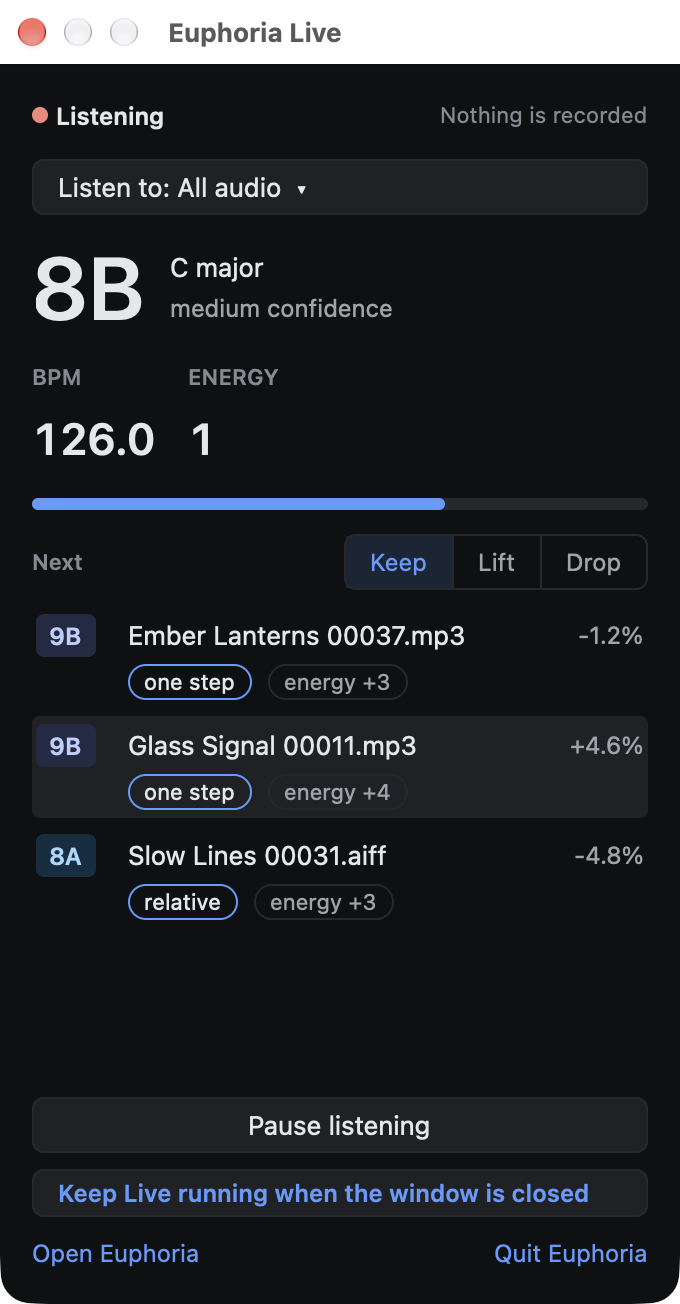
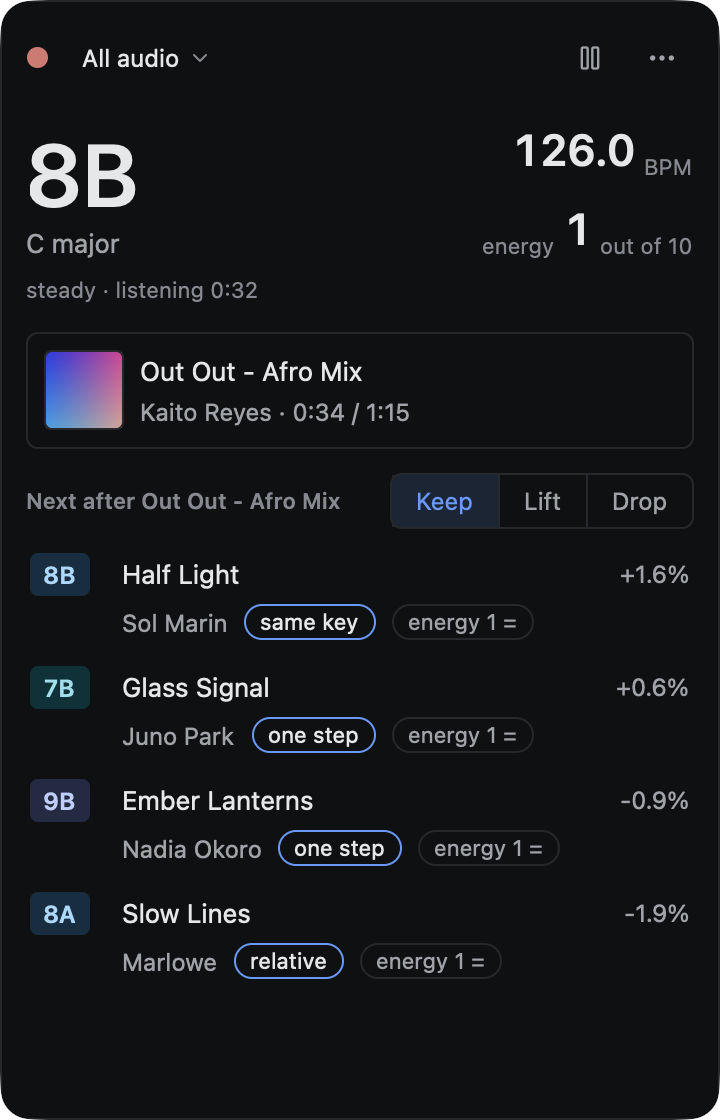
feat(desktop): Live popover opens under the menu bar item and closes on outside click, titles without extensions, one energy line, new screenshots and docs, CLI line mirrors the panel

diff --git a/apps/euphoria-desktop/src/views/live.rs b/apps/euphoria-desktop/src/views/live.rs
@@ -24,11 +24,11 @@ use crate::actions::{
 use crate::artwork::{Lookup, ThumbnailSize};
 use crate::assets::{MUSIC_ICON_PATH, PLAY_ICON_PATH};
 use crate::format;
-use crate::live_model::{Learning, ListenState, LiveModel, Steadiness};
+use crate::live_model::{Learning, ListenState, LiveModel, Steadiness, shown_title};
 use crate::next_rail::{EnergyChoice, NextRow, energy_text, relation_pill};
 use crate::theme::Palette;
 use crate::views::controls::{segment, segmented};
-use crate::views::inspector::{quiet_note, value_with_unit};
+use crate::views::inspector::{quiet_note, statistic_value, value_with_unit};
 use crate::views::key_chip::key_chip;
 use crate::views::{
     GAP_MEDIUM, GAP_SMALL, GAP_TIGHT, LABEL_TEXT_SIZE, RADIUS_LARGE, RADIUS_MEDIUM, RADIUS_SMALL,
@@ -358,7 +358,7 @@ fn header(model: &LiveModel, view: &LiveView, cx: &Context<'_, LiveView>) -> Div
         .child(
             Button::new(MORE_ID)
                 .ghost()
-                .icon(IconName::Ellipsis)
+                .icon(Icon::new(IconName::Ellipsis).text_color(palette.text_secondary))
                 .dropdown_menu(move |menu, _, _| {
                     more_rows.iter().fold(menu, |menu, row| {
                         let menu = if row.item == MoreItem::OpenEuphoria {
@@ -543,12 +543,13 @@ fn readout(model: &LiveModel) -> AnyElement {
                         .child(
                             div()
                                 .id(ENERGY_ID)
-                                .child(value_with_unit(
-                                    format!("energy {energy}"),
-                                    "out of 10",
-                                    "live-energy-unit",
-                                    &palette,
-                                ))
+                                .flex()
+                                .items_baseline()
+                                .gap(GAP_TIGHT)
+                                .whitespace_nowrap()
+                                .child(quiet_note("energy", &palette))
+                                .child(statistic_value(energy))
+                                .child(quiet_note("out of 10", &palette))
                                 .test_support(),
                         ),
                 ),
@@ -651,7 +652,7 @@ fn library_card(model: &LiveModel, cx: &Context<'_, LiveView>) -> Option<AnyElem
                     .flex_col()
                     .flex_1()
                     .min_w_0()
-                    .child(div().truncate().child(track.title().to_string()))
+                    .child(div().truncate().child(shown_title(track)))
                     .child(
                         div()
                             .truncate()
@@ -730,7 +731,7 @@ fn next_row(model: &LiveModel, next: &NextRow, is_selected: bool) -> Option<AnyE
                                     .flex_1()
                                     .min_w_0()
                                     .truncate()
-                                    .child(track.title().to_string()),
+                                    .child(shown_title(track)),
                             )
                             .child(
                                 div()

diff --git a/apps/euphoria-desktop/src/live_model.rs b/apps/euphoria-desktop/src/live_model.rs
@@ -467,9 +467,7 @@ impl LiveModel {
         let Some((key, _)) = self.signature else {
             return;
         };
-        let title = self
-            .matched_track()
-            .map(|(track, _)| track.title().to_string());
+        let title = self.matched_track().map(|(track, _)| shown_title(track));
         let entry = Earlier {
             key,
             bpm: self.reading.tempo.map(|tempo| tempo.bpm),
@@ -522,7 +520,7 @@ impl LiveModel {
     /// The words above the Next list: what it follows.
     pub(crate) fn next_heading(&self) -> String {
         if let Some((track, _)) = self.matched_track() {
-            return format!("Next after {}", track.title());
+            return format!("Next after {}", shown_title(track));
         }
         match (self.reading.key, self.reading.tempo) {
             (Some(key), Some(tempo)) => format!(
@@ -740,6 +738,20 @@ pub(crate) fn load_library_from_cache() -> Library {
         }
     }
     library
+}
+
+/// The title the panel shows: the one in the tags, or the file name without
+/// its extension.
+pub(crate) fn shown_title(track: &crate::library::Track) -> String {
+    if track.title() != track.file_name {
+        return track.title().to_string();
+    }
+    std::path::Path::new(&track.file_name)
+        .file_stem()
+        .map_or_else(
+            || track.file_name.clone(),
+            |stem| stem.to_string_lossy().into_owned(),
+        )
 }
 
 /// Fingerprints the library's files from the analysis cache, one at a time

diff --git a/apps/euphoria-desktop/src/live_ui_tests.rs b/apps/euphoria-desktop/src/live_ui_tests.rs
@@ -24,7 +24,7 @@ use gpui::{
 };
 
 use crate::library::Library;
-use crate::live_model::{ListenState, LiveModel, Steadiness};
+use crate::live_model::{ListenState, LiveModel, Steadiness, shown_title};
 use crate::live_settings::LiveSettings;
 use crate::menu_bar::MenuBarState;
 use crate::menu_bar::testing::RecordingSurface;
@@ -323,10 +323,7 @@ fn rows(model: &Entity<LiveModel>, cx: &mut TestAppContext) -> Vec<String> {
         model
             .next_rows
             .iter()
-            .map(|row| {
-                let title = library.track(row.track_index).unwrap().title();
-                title.trim_end_matches(".flac").to_string()
-            })
+            .map(|row| shown_title(library.track(row.track_index).unwrap()))
             .collect()
     })
 }
@@ -773,7 +770,7 @@ fn the_next_heading_says_what_the_list_follows(cx: &mut TestAppContext) {
     });
     cx.update(|cx| {
         let model = model.read(cx);
-        let title = model.matched_track().unwrap().0.title().to_string();
+        let title = shown_title(model.matched_track().unwrap().0);
         assert_eq!(model.next_heading(), format!("Next after {title}"));
     });
 }

diff --git a/apps/euphoria-desktop/src/live_app.rs b/apps/euphoria-desktop/src/live_app.rs
@@ -168,8 +168,11 @@ fn open_panel_at(anchor: Option<PanelAnchor>, cx: &mut App) {
     match gpui::open_window(options, cx, |window, cx| {
         let view = cx.new(|cx| LiveView::new(view_model, cx));
         view.update(cx, |_, cx| {
-            cx.observe_window_activation(window, |_, window, cx| {
-                if !window.is_window_active() {
+            let was_active = std::cell::Cell::new(false);
+            cx.observe_window_activation(window, move |_, window, cx| {
+                if window.is_window_active() {
+                    was_active.set(true);
+                } else if was_active.get() {
                     cx.global_mut::<LiveRuntime>().closed_at = Some(std::time::Instant::now());
                     window.remove_window();
                 }

diff --git a/apps/euphoria-desktop/src/menu_bar.rs b/apps/euphoria-desktop/src/menu_bar.rs
@@ -48,7 +48,7 @@ impl MenuBarState {
             keeps_running: model.settings.keep_running_when_closed,
             matched_title: model
                 .matched_track()
-                .map(|(track, _)| track.title().to_string()),
+                .map(|(track, _)| crate::live_model::shown_title(track)),
         }
     }
 }

diff --git a/docs/guides/euphoria-live.md b/docs/guides/euphoria-live.md
@@ -7,37 +7,42 @@ description: See the key and tempo of whatever is playing on your Mac, from reko
 
 Euphoria Live listens to the audio your Mac is playing and shows its key and tempo as it plays. It works with any source: rekordbox, Spotify, YouTube in a browser, a turntable through an audio interface that macOS plays out.
 
-![The Live panel hearing a C major pad over a kick at 126 BPM, with the tracks of a demo library that mix in](../images/live/live-panel.png)
+![The Live panel hearing a C major pad over a kick at 126 BPM, with the track it recognised and the tracks of a demo library that mix in](../images/live/live-panel.png)
+
+The same panel in the Paper theme:
+
+![The Live panel in the Paper theme](../images/live/live-panel-paper.png)
 
 ## Open it
 
-- **In the app:** the **Live** button in the toolbar, **View, Live** (Shift Command L), or Command K and "Open Euphoria Live".
-- **In the menu bar:** once Live has been started, Euphoria keeps an item in the macOS menu bar. Its title is the key heard, such as `8B`, or "Live" while it has nothing to show, and "Live paused" when paused. Click it to show or hide the Live panel. Right click it, or Control click, for a menu: Show Live, Pause listening, Keep Live running when the window is closed, Open Euphoria and Quit Euphoria.
+- **From the menu bar:** once Live has been started, Euphoria keeps an item in the macOS menu bar. Its title is the key heard, such as `8B`, "Live" while it has nothing to show, and "Live paused" when paused. Click it and the panel drops down under it. Right click it, or Control click, for a menu: Show Live, Pause listening, Keep Live running, Open Euphoria and Quit Euphoria.
+- **In the app:** the **Live** button in the toolbar, **View, Live** (Shift Command L), or Command K and "Open Euphoria Live". The same shortcut and button close it.
 - **Without the library window:** `open -a Euphoria --args --live` starts Euphoria with only the menu bar item and the panel, and no Dock icon.
 - **In a terminal:** `euphoria live`, below.
 
-Opening Live starts listening. The first time, macOS asks for permission, described below.
+Opening Live starts listening. The first time, macOS asks for permission, described below. The panel has no window frame: like the panels of other menu bar apps it closes when you click outside it or press Escape.
 
 ## The panel
 
-The panel is a small window that stays on top of other windows, so it can sit beside rekordbox.
+From the top:
 
-- **Listening** with a red dot, and "Nothing is recorded", whenever Euphoria is listening. When paused the dot is grey and the panel says "Not listening".
-- **Listen to** chooses what is heard: *All audio*, or one of the applications playing audio right now, such as rekordbox. The list is read when you open it. Euphoria's own playback is never heard.
-- **The key**, big, in the notation you chose in the settings, with its musical name and its confidence: high, medium or low. Below it the **BPM**, the **energy** from 1 to 10, and a level meter.
-- **Next** lists the tracks of your library that mix in after what is playing, with the same ranking, the same Keep, Lift and Drop choice, the same pills and the same filters of the suggestion pool as the "Next after" list of the main window. It ranks from the key and tempo heard, so it works for Spotify or YouTube too; no library track needs to match. Tracks the cache has no analysis for are left out.
-- **Scrolling.** The Next list scrolls with the trackpad, the mouse wheel and a scrollbar while the readout and the controls stay put, and the panel can be resized down to a minimum height. Up and Down move through the rows and keep the row in view; Enter opens it in Euphoria.
-- **Click a track** in the Next list, or the **In your library** card, to open it in Euphoria: the library window comes up, or is opened again if it was closed (and the Dock icon returns), the track is selected in the table and shown in the inspector, with any search, filter, folder or playlist that hid it taken off. Nothing is played in Euphoria, because the music is playing in another app. When a track is recognised, the menu bar menu also has **Show <title> in Euphoria**.
-- **Pause listening** stops the capture and forgets the audio; **Start listening** resumes.
-- **Keep Live running when the window is closed**, **Open Euphoria** and **Quit Euphoria** are at the bottom.
+- **The header.** A small dot that is red while Euphoria listens and swells and brightens with the level of the audio, so it shows that sound arrives; hover it to read what is listened to and that nothing is recorded. Beside it the source, **All audio** or one of the applications playing audio right now, such as rekordbox, which you change by clicking it; the list is read when you open it, and Euphoria's own playback is never heard. On the right a pause or resume button, and a **…** menu with Pause or Resume listening, **Keep Live running when the window is closed** and **Open Live at login**, each with a tick when it is on, then Open Euphoria and Quit Euphoria.
+- **The readout.** The key, large, in the notation you chose in the settings, with its musical name under it. Beside it, in the style of the inspector, the tempo as "126.0 BPM" and the energy as "energy 6 out of 10". Under them one small line says whether the reading is **settling…** or **steady**, and for how long Live has been listening. A reading is steady once the key and the tempo have not changed for six seconds. No confidence word is shown.
+- **In your library.** When what plays is a track of your library, a card with its cover, title, artist and where it is, "2:41 / 6:57", with its tempo change when it is not played at its own tempo. Without a match there is no card, and nothing is claimed.
+- **Next.** A heading that says what the list follows, "Next after <title>" for a recognised track and "Next for 8B · 126 BPM" otherwise, with the Keep, Lift and Drop choice. Rows show the key, the title and artist from the tags, the tempo change, and the pills of the main app: how the keys relate and "energy 7 ↑1", "energy 3 ↓6" or "energy 7 =". The list ranks like the "Next after" list of the main window, with the same filters of the suggestion pool, and from the recognised track's own key, tempo and energy when there is one, so it works for Spotify or YouTube too. Tracks the cache has no analysis for are left out.
+- **Earlier.** A line that opens to the last few readings that held, such as "7A 124 · 8A 125 · 8B 126", with the title where a track was recognised, newest last. It lives in memory and is gone when Euphoria quits.
 
-When the audio is silent or too quiet, or just started, the panel says "Listening…" and shows no key, no tempo and no list: nothing is guessed or kept from before.
+The list scrolls with the trackpad, the mouse wheel and a scrollbar while the header and readout stay put. Up and Down move through the rows and keep the row in view; Enter opens it.
+
+**Click a track** in the Next list, or the **In your library** card, to open it in Euphoria: the library window comes up, or is opened again if it was closed (and the Dock icon returns), the track is selected in the table and shown in the inspector, with any search, filter, folder or playlist that hid it taken off. Nothing is played in Euphoria, because the music is playing in another app. When a track is recognised, the menu bar menu also has **Show <title> in Euphoria**.
+
+When the audio is silent or too quiet, or just started, the panel says "Listening…" and shows no key, no tempo and no list: nothing is guessed or kept from before. After ten seconds of exact silence it says how to allow listening in System Settings.
 
 ## Part of the app, in the menu bar
 
 Live is part of Euphoria, not a second app. Close the library window and Live keeps running in the menu bar, with its panel if you left it open, so you can close the library and keep Live beside rekordbox. **Open Euphoria** in the panel or the menu bar menu opens the library window again.
 
-**Keep Live running when the window is closed** is on by default, and counts once Live has been started. Turn it off and closing the library window quits Euphoria, as before. It is kept in a file of its own, `live.json`, beside the settings. The panel on its own never keeps Euphoria open: only the menu bar item does.
+**Open Live at login** registers Euphoria as a login item with macOS 13 or later, which you can see and remove under System Settings, General, Login Items. When macOS starts Euphoria that way, it opens only the menu bar item and the panel, with no library window. It needs the app in a bundle, and starting at login is not tested. **Keep Live running when the window is closed** is on by default, and counts once Live has been started. Turn it off and closing the library window quits Euphoria, as before. It is kept in a file of its own, `live.json`, beside the settings. The panel on its own never keeps Euphoria open: only the menu bar item does.
 
 While only Live runs, no library table, waveform or analysis worker exists. The library is read from the analysis cache the first time the Next list is shown, once, and nothing is analyzed. Measured on an Apple silicon Mac, with a build of the `fast` profile, listening to a generated track with the library window closed: about 6 percent of one core while analyzing, near zero while the audio is silent, and about 140 MB of memory with the panel closed and about 170 MB with it open and the library of 40 tracks read. Most of that memory is the window system, not the analysis: `euphoria live` in a terminal needs 65 to 90 MB.
 
@@ -63,17 +68,18 @@ Linux is not supported yet. A PipeWire or PulseAudio monitor source would be the
 euphoria live
 ```
 
-`euphoria live` prints one line per update once enough audio has played:
+`euphoria live` prints one line per update once enough audio has played, with the same information as the panel: the key and its name, the tempo, the energy out of 10, whether the reading is settling or steady and, with `--from`, the track it recognised:
 
 ```
 $ euphoria live
 Listening to All audio. Nothing is recorded; press Ctrl-C to stop.
 listening…
-8A  A minor  124.0 BPM  high
-8A  A minor  124.0 BPM  high
+8A  A minor  124.0 BPM  energy 6/10  settling
+8A  A minor  124.0 BPM  energy 6/10  steady
+8A  A minor  124.0 BPM  energy 6/10  steady  matched: Out Out - Afro Mix
 ```
 
-The key appears after about 8 seconds of audio and the tempo after about 6. The confidence is that of the key (`low`, `medium` or `high`, as in [the analysis](../concepts/accuracy.md)). When the audio goes silent or too quiet, `listening…` is printed once, and values are never repeated from before. Ctrl-C stops it.
+The key appears after about 8 seconds of audio and the tempo after about 6. `steady` appears once the key and tempo have held for six seconds. When the audio goes silent or too quiet, `listening…` is printed once, and values are never repeated from before. Ctrl-C stops it.
 
 | Option | Meaning |
 | --- | --- |
@@ -96,7 +102,7 @@ Measured on an Apple silicon Mac with a build of the `fast` profile, which is op
 
 ## Recognising a track of your library
 
-When what plays is a file in your library, Live says which one and where in it, and the Next list ranks from that track's own key, tempo and energy instead of the ones heard. The panel shows an **In your library** card with the title, the position, and how the track is played: for example "+6.0%, key lock", or "-4.0%, pitch follows" for a turntable or a pitch fader without key lock. In a terminal, add `--from` and `euphoria live` prints `matched: <path>` when it recognises a track, and `--json` adds a `match` object with `path`, `position_seconds`, `tempo_ratio` and `pitch_follows_tempo`.
+When what plays is a file in your library, Live says which one and where in it, and the Next list ranks from that track's own key, tempo and energy instead of the ones heard. The panel shows an **In your library** card with the title, the position, and how the track is played: for example "+6.0%, key lock", or "-4.0%, pitch follows" for a turntable or a pitch fader without key lock. In a terminal, add `--from` and the reading line ends with `matched: <title>` when it recognises a track, and `--json` adds a `match` object with `path`, `title`, `artist`, `position_seconds`, `tempo_ratio` and `pitch_follows_tempo`, and `steady` on every reading.
 
 ```
 euphoria live --from ~/Music/DJ

diff --git a/docs/reference/cli.md b/docs/reference/cli.md
@@ -616,14 +616,14 @@ Shows the key and tempo of the audio playing on this Mac, as it plays. The analy
 euphoria live [OPTIONS]
 ```
 
-Needs macOS 14.2 or later, and macOS asks once to allow listening. One line is printed per reading, `8A  A minor  124.0 BPM  high`, or `listening…` once while the audio is silent. Ctrl-C stops it.
+Needs macOS 14.2 or later, and macOS asks once to allow listening. One line is printed per reading, `8A  A minor  124.0 BPM  energy 6/10  steady`, or `listening…` once while the audio is silent. Ctrl-C stops it.
 
 | Option | Meaning |
 | --- | --- |
 | `--source <PROCESS>` | Listen to one application, by the start of its name. Without it, everything playing is heard except Euphoria. |
 | `--interval <SECONDS>` | Seconds between readings, 0.5 or more. Default 2. |
-| `--from <FOLDER\|FILE>` | Recognise which of these tracks plays, also when it is played up to 10 percent faster or slower. Their fingerprints are made once and kept in the cache, so the first run over a large folder takes a while. A recognised track is printed as `matched: <path>`. |
-| `--json` | One JSON object per line: `listening`, `source`, `key` (`camelot`, `name`, `confidence`), `bpm`, `bpm_confidence`, `energy`, `level_db`, and `match` (`path`, `position_seconds`, `tempo_ratio`, `pitch_follows_tempo`, or `null`). |
+| `--from <FOLDER\|FILE>` | Recognise which of these tracks plays, also when it is played up to 10 percent faster or slower. Their fingerprints are made once and kept in the cache, so the first run over a large folder takes a while. A recognised track ends the reading line with `matched: <title>`. |
+| `--json` | One JSON object per line: `listening`, `source`, `key` (`camelot`, `name`, `confidence`), `bpm`, `bpm_confidence`, `energy`, `level_db`, `steady`, and `match` (`path`, `title`, `artist`, `position_seconds`, `tempo_ratio`, `pitch_follows_tempo`, or `null`). |
 
 ## euphoria next
 
